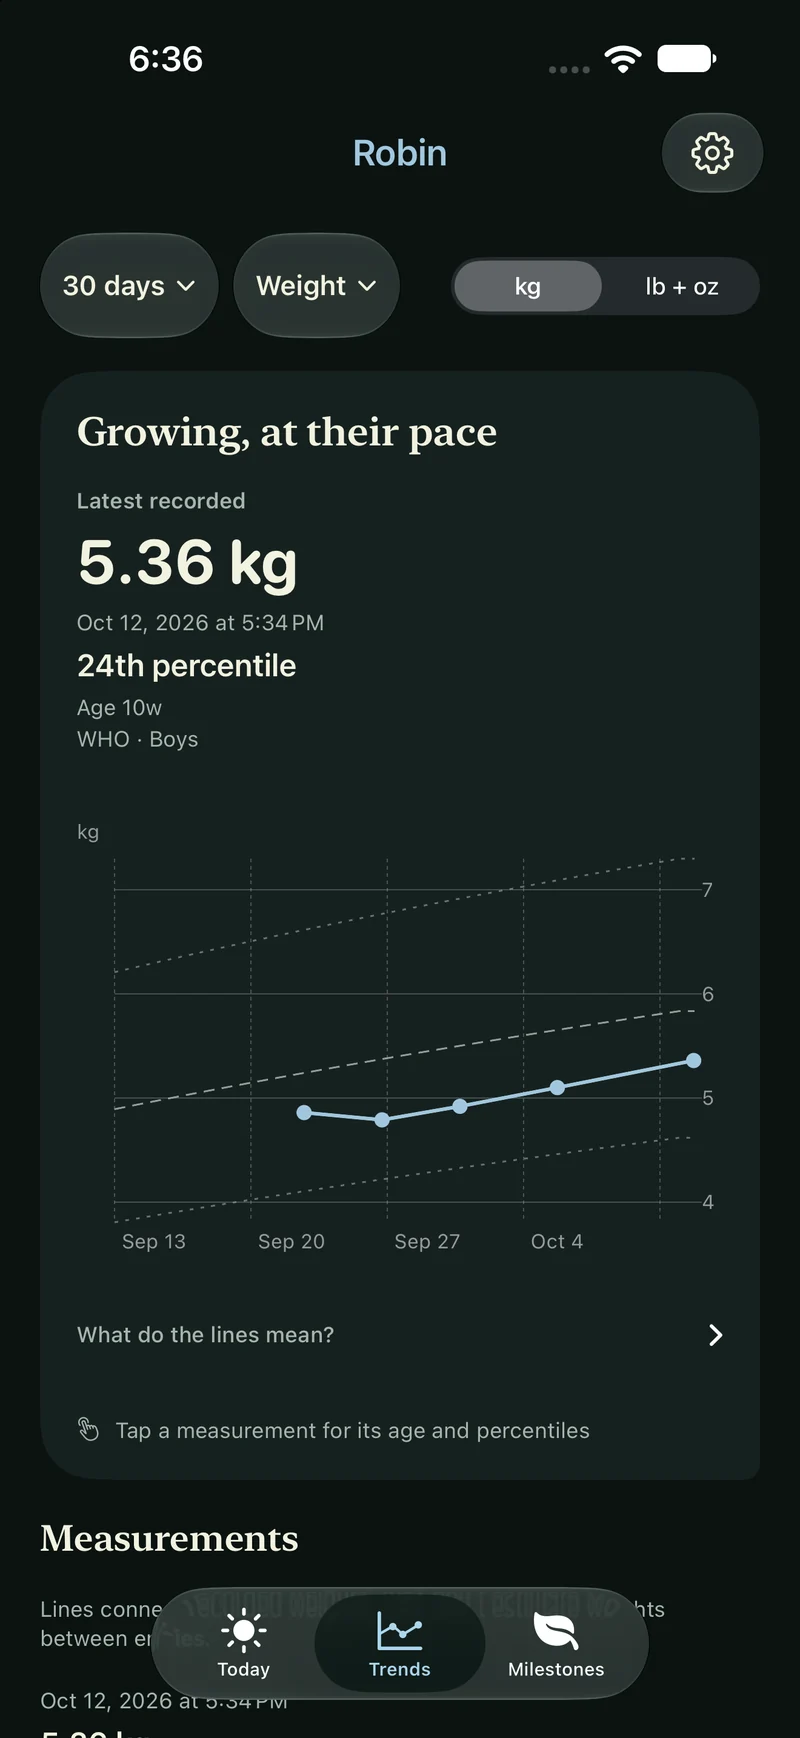
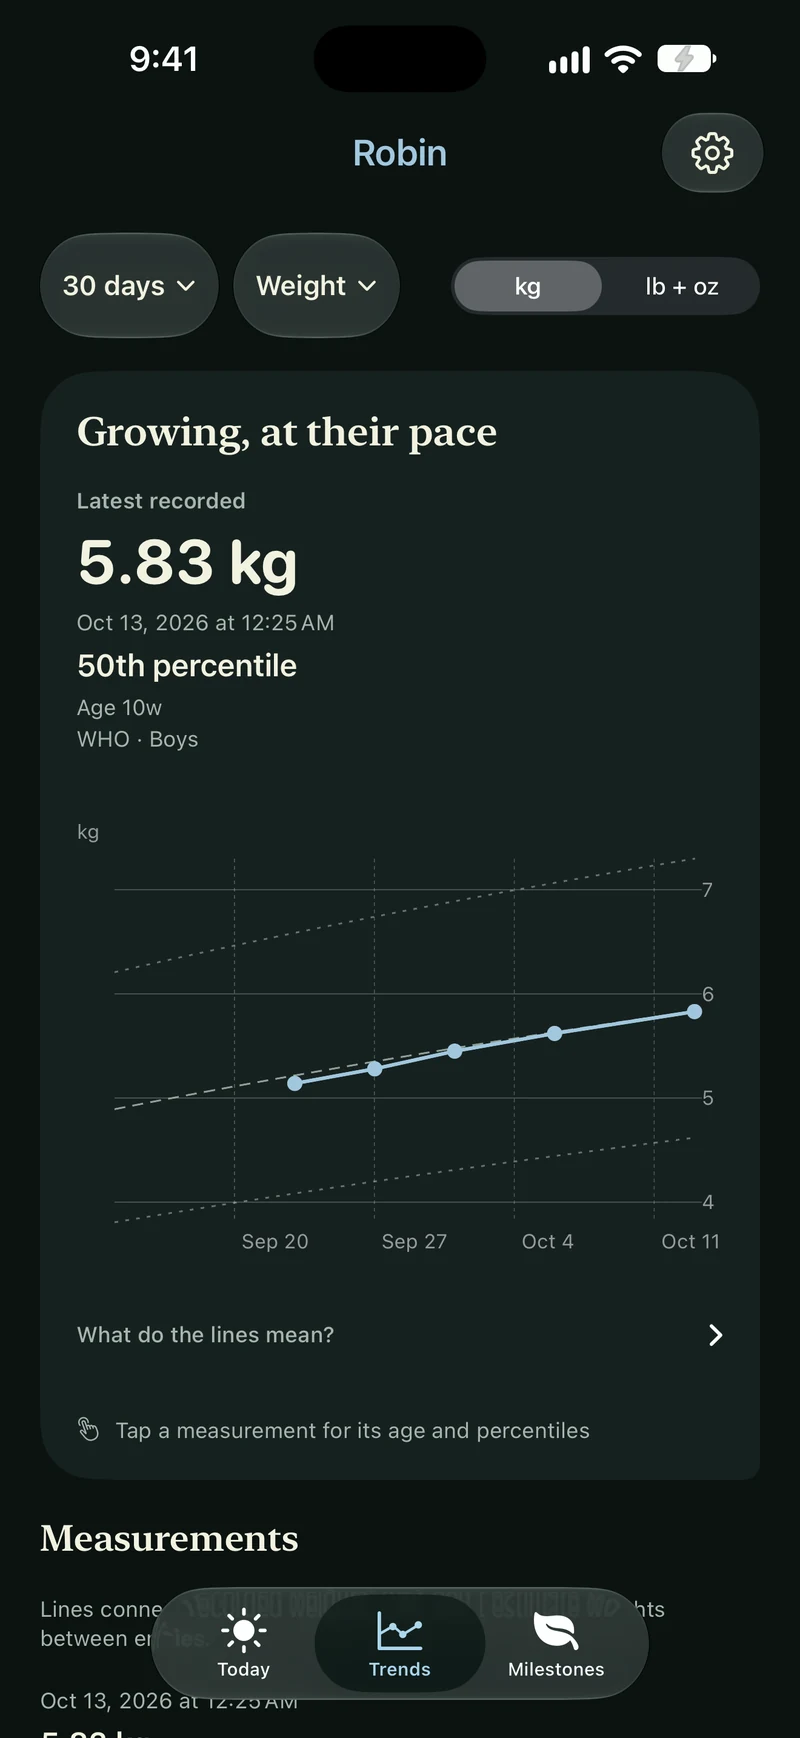
Use a steady fictional growth example in marketing captures [skip ci]

diff --git a/website/index.html b/website/index.html
@@ -88,7 +88,7 @@
 </section>
 <section class="section wrap" id="growth" aria-labelledby="growth-heading">
   <div class="growth-layout">
-    <div class="growth-art" data-reveal><figure class="phone"><img src="/assets/growth.webp" width="800" height="1738" loading="lazy" alt="Swaddle weight trend with a recorded 5.36 kg measurement, WHO percentile, and a chart of growth over time."></figure></div>
+    <div class="growth-art" data-reveal><figure class="phone"><img src="/assets/growth.webp?v=2" width="800" height="1738" loading="lazy" alt="Fictional sample: Swaddle weight trend with a 5.83 kg measurement at the 50th percentile and a steadily rising chart."></figure></div>
     <div class="growth-copy" data-reveal><p class="eyebrow">Growing, at their pace</p><h2 id="growth-heading">A clearer picture<br>of their journey.</h2><p>Keep measurements together and see how they change over time. WHO growth references add context, with corrected and actual age comparisons for premature babies.</p><div class="measurements"><span>Weight</span><span>Length &amp; height</span><span>Head circumference</span></div><p class="fine-print">Tap a measurement for the details. Choose kilograms or pounds and ounces. These are reference comparisons, not diagnoses or targets—a useful record to bring to your pediatrician.</p><a class="text-link" href="/support/#growth">About growth references <span class="arrow" aria-hidden="true">↗</span></a></div>
   </div>
 </section>

diff --git a/BabyActivityRecorder/Design/MotionReview.swift b/BabyActivityRecorder/Design/MotionReview.swift
@@ -111,13 +111,18 @@
                   occurredAt: now.addingTimeInterval(-Double(index * 18000 + 4500)),
                   authorID: alex.id, payload: .diaper(Diaper(pee: true, poo: index == 0)))))
           }
-          for (day, grams) in [(20, 3360), (16, 3290), (12, 3420), (7, 3600), (0, 3860)] {
-            let weight = has("--growth-comparisons") && day == 0 ? 4180 : grams + (has("--store-listing") ? 1500 : 0)
+          // Marketing examples use a steady, fictional series near the middle
+          // of the WHO reference. Keep the newborn QA scenarios independent.
+          let weights = has("--store-listing")
+            ? [(20, 5140), (16, 5280), (12, 5450), (7, 5620), (0, 5830)]
+            : [(20, 3360), (16, 3290), (12, 3420), (7, 3600), (0, 3860)]
+          for (day, grams) in weights {
+            let weight = has("--growth-comparisons") && day == 0 ? 4180 : grams
             try store.save(
               .activity(
                 Activity(
                   familyID: child.familyID, childID: child.id,
-                  occurredAt: now.addingTimeInterval(-Double(day * 86400 + 3600)),
+                  occurredAt: now.addingTimeInterval(-Double(day * 86400 + (has("--store-listing") ? 0 : 3600))),
                   authorID: store.caregiverID, payload: .weight(
                     grams: Decimal(has("--growth-transition") ? weight + 3500 : weight), unit: "kg")))
             )
